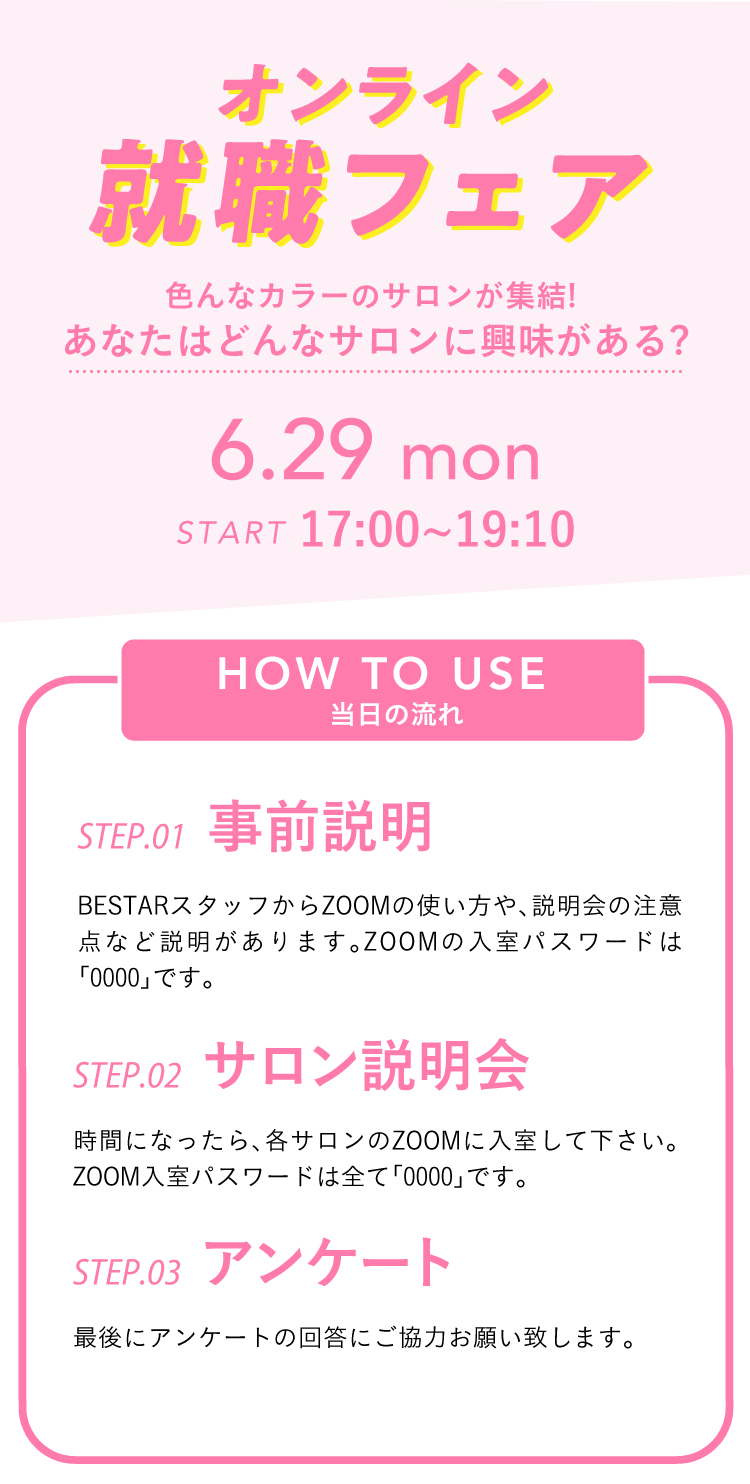
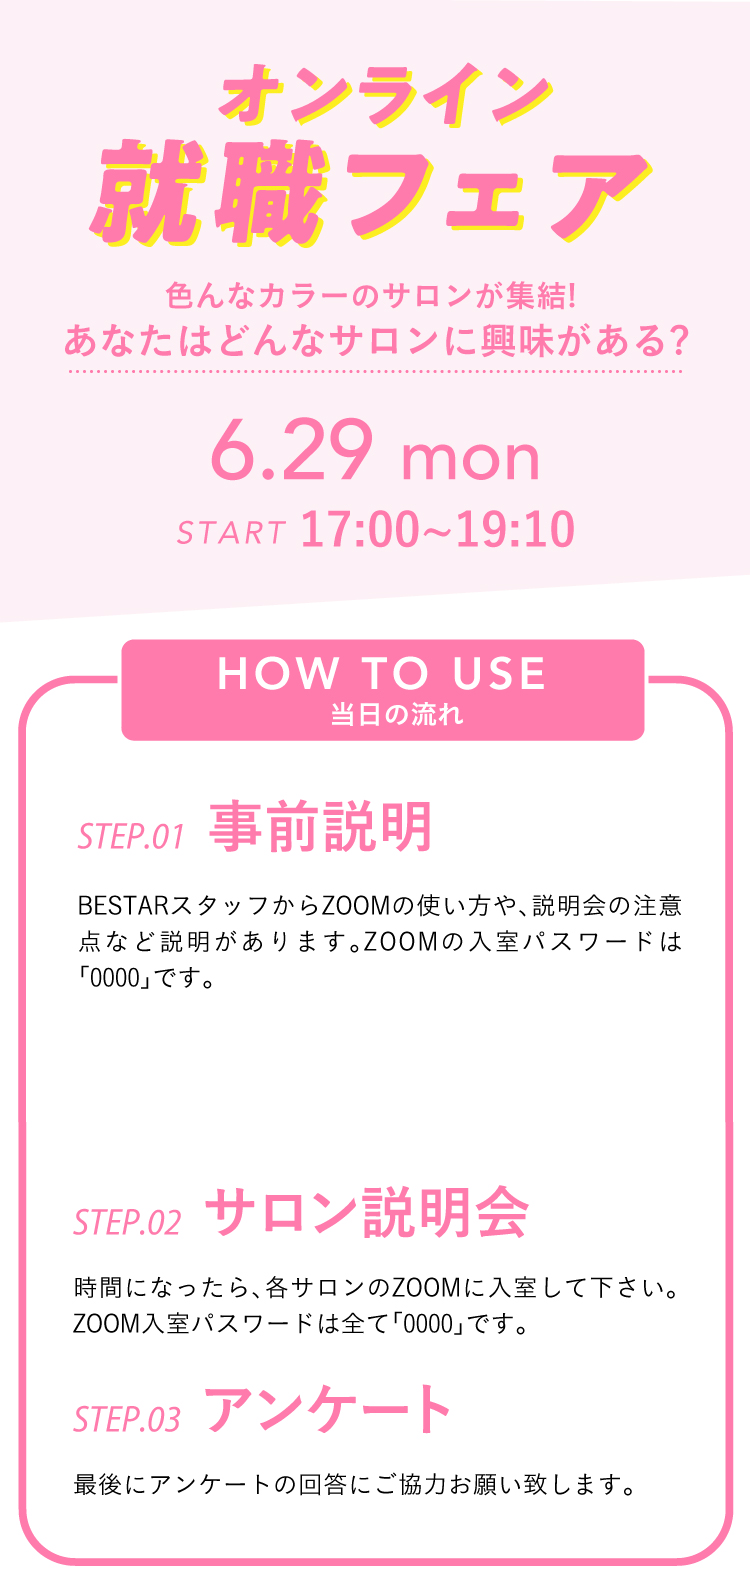
added button

diff --git a/index.html b/index.html
@@ -31,7 +31,12 @@
 			</header>
 			<div class="mainview">
                 <div class="description_part">
-                    <img class="online_guidence" src="./images/title.jpg" alt="title">
+					<img class="online_guidence" src="./images/title.jpg" alt="title">
+					<div class="login">
+						<a href="https://zoom.us/j/4634138043?pwd=dktqR29jVGdrMmYvZHZYYUpCd0FwZz09">
+							<img src="./images/login.jpg" alt="login">
+						</a>
+					</div>
                     <a href="https://aura-mico.jp/qr-codes/5981/preview">
                         <img class="event" src="./images/event1.jpg" alt="event1">
                     </a>

diff --git a/css/index.css b/css/index.css
@@ -7,8 +7,19 @@ img {
     width: 100%;
 }
 
+.description_part {
+    position: relative;
+}
+
 .title {
     width: 100%;
+}
+
+.login {
+    position: absolute;
+    width: 85%;
+    top: 56.5%;
+    left: 9%;
 }
 
 .online_guidence {
